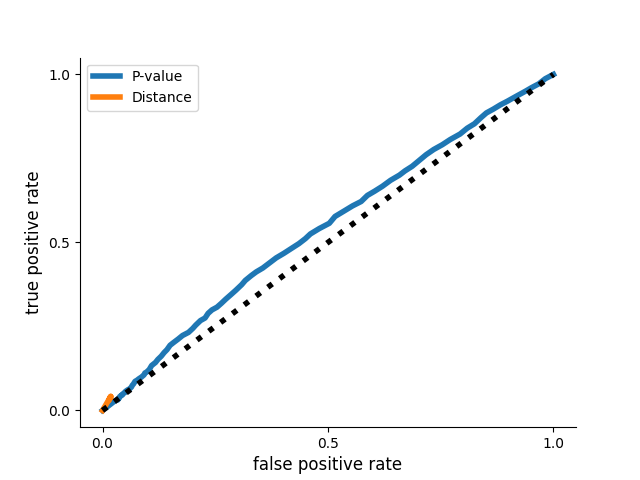
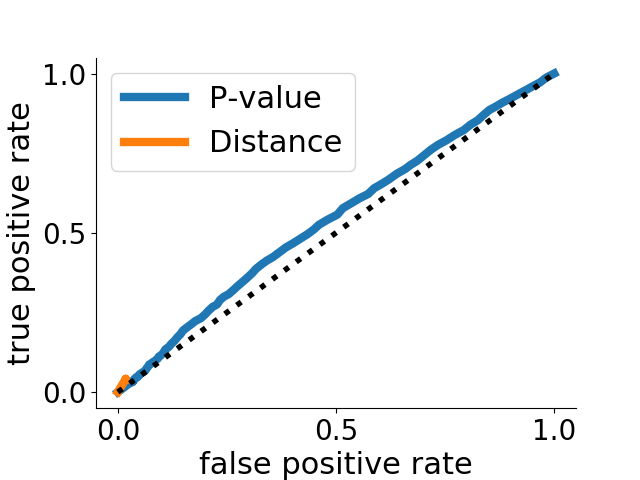
formatting figures for grant/slides

diff --git a/plot_ROC_all_methods.py b/plot_ROC_all_methods.py
@@ -63,6 +63,7 @@ csi_roc = dict([(f.replace('_roc_data.pkl',''),os.path.join(csi_roc_dir,f)) for 
 alf = [f for f in os.listdir(csi_roc_dir) if '_ts_roc_auc_score.pkl' in f]
 csi_auc_ts = dict([(f.replace('_ts_roc_auc_score.pkl',''),os.path.join(csi_roc_dir,f)) for f in alf]) 
 
+dme_single = 'pancreatitis'
 for (i,(dme,roc_data_f)) in enumerate(csi_roc.items()):
 	palpha = (1.0/len(csi_roc)*i)
 	print(dme)
@@ -75,17 +76,23 @@ for (i,(dme,roc_data_f)) in enumerate(csi_roc.items()):
 	skl_auroc_f = csi_auc_ts[dme]
 	skl_auroc = pickle.load(open(skl_auroc_f,'rb'))
 	print('AUROC,sklearn: '+str(skl_auroc))
-	if area2>0.7:
-		lbl = dme+" AUROC: "+"{0:.2f}".format(area2)
-		ax.plot(x,y,linewidth=2.0,linestyle='-',label=lbl,)#color='blueviolet',alpha=palpha)
+	#if area2>0.7 and area2 <1.0:
+	if area2>0.7 and area2 <1.0 and dme==dme_single:
+		lbl = dme+" \nAUROC: "+"{0:.2f}".format(area2)
+		ax.plot(x,y,linewidth=6.0,linestyle='-',label=lbl,alpha=0.6,color='green')#color='blueviolet',alpha=palpha)
 
 ax.plot(np.linspace(0,1,100),np.linspace(0,1,100),linestyle=':',linewidth=4.0,color='k')
-ax.set_xlabel('false positive rate',fontsize=12)
-ax.set_ylabel('true positive rate',fontsize=12)
+ax.set_xlabel('false positive rate',fontsize=20)
+ax.set_ylabel('true positive rate',fontsize=20)
 ax.set_yticks([0,0.5,1.0])
 ax.set_xticks([0,0.5,1.0])
-ax.legend(bbox_to_anchor=(1.1, 1.05),prop={"size":7},)#ncol=2)
+for tick in ax.xaxis.get_major_ticks():
+        tick.label.set_fontsize(20)
+for tick in ax.yaxis.get_major_ticks():
+        tick.label.set_fontsize(20)
+ax.legend(bbox_to_anchor=(1.,1.),prop={"size":16},)#ncol=2)
 ax.spines['right'].set_visible(False)
 ax.spines['top'].set_visible(False)
-plt.subplots_adjust(right = 0.6)
-plt.savefig('improve_top_methods_ROC_dist.png',format='png')
+plt.subplots_adjust(right = 0.6,bottom = 0.15, left = 0.15)
+# plt.savefig('improve_top_methods_ROC_dist.png',format='png')
+plt.savefig('improve_top_methods_ROC_dist_'+dme_single+'.png',format='png')

diff --git a/plot_ROC_pv_soDist.py b/plot_ROC_pv_soDist.py
@@ -38,7 +38,6 @@ for sdist in all_dist:
 	tnr = len(true_negatives)/float(len(negatives))
 	fpr = 1-tnr
 	roc_data.append((fpr,tpr))
-print("AUROC P-value: "+str(area))
 
 
 # load results from p-value
@@ -49,18 +48,23 @@ fig,ax = plt.subplots()
 (x,y) = zip(*pv_roc_values)
 area2 = trapz(y,x)
 print("AUROC P-value: "+str(area2))
-ax.plot(x,y,linewidth=4.0,label='P-value')
+ax.plot(x,y,linewidth=6.0,label='P-value')
 (x,y) = zip(*roc_data)
-ax.plot(x,y,linewidth=4.0,label='Distance')
+ax.plot(x,y,linewidth=6.0,label='Distance')
 area2 = trapz(y,x)
 print("AUROC Distance: "+str(area2))
 
 ax.plot(np.linspace(0,1,100),np.linspace(0,1,100),linestyle=':',linewidth=4.0,color='k')
-ax.set_xlabel('false positive rate',fontsize=12)
-ax.set_ylabel('true positive rate',fontsize=12)
+ax.set_xlabel('false positive rate',fontsize=22)
+ax.set_ylabel('true positive rate',fontsize=22)
 ax.set_yticks([0,0.5,1.0])
 ax.set_xticks([0,0.5,1.0])
-ax.legend()
+for tick in ax.xaxis.get_major_ticks():
+	tick.label.set_fontsize(20) 
+for tick in ax.yaxis.get_major_ticks():
+	tick.label.set_fontsize(20) 
+ax.legend(prop={'size':22})
 ax.spines['right'].set_visible(False)
 ax.spines['top'].set_visible(False)
+plt.subplots_adjust(bottom = 0.15, left = 0.15)
 plt.savefig('pvalue_ROC_dist.png',format='png')
